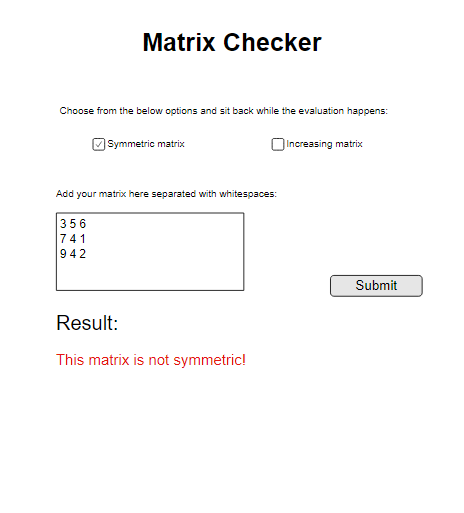
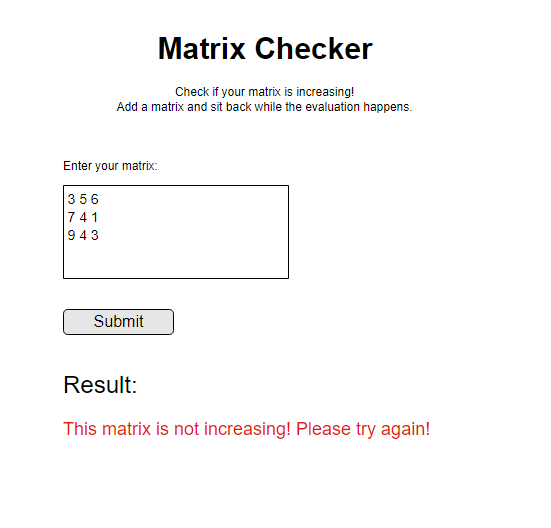
fix(remove-symmetric): fix based on walkthrough

diff --git a/javacs.md b/javacs.md
@@ -2,7 +2,7 @@
 
 ## 1) Symmetric Matrix
 
-You will create a web page which can check if the matrix is symmetric, increasing or neither.
+You will create a web page which can check if the matrix is increasing or not.
 
 # Matrix Checker
 
@@ -13,7 +13,6 @@ You will create a web page which can check if the matrix is symmetric, increasin
   - the **frontend** should have:
     - a heading with the title
     - nice intro text
-    - radio buttons for the matrix validation options
     - text area for the matrix input
     - submit button for sending the matrix to backend to check
 
@@ -22,12 +21,11 @@ You will create a web page which can check if the matrix is symmetric, increasin
 
   - only a square matrix should be submitted in the input field,
     - otherwise the app should send an error message
-  - user can choose which validation type will the matrix ride through
   - do the validation methods in backend
   - in case the matrix is valid send a success message in 'Result' section
-  - in case the matrix is not valid send an error
+  - in case the matrix is not valid send an error message in 'Result' section
   - if success, save the matrix into a database with the following fields:
-    - id, type, date, matrixNumbers
+    - id, date, matrixNumbers
   - handle errors written in the README.md
 
 
@@ -38,9 +36,9 @@ You will create a web page which can check if the matrix is symmetric, increasin
   - the endpoint should render an HTML displaying the main page
 
 ### POST `/matrix`
-  - this endpoint should be responsible for sending the matrix with the need of relevant validation type (symmetric or increasing)
+  - this endpoint should be responsible for sending the matrix
 
-### GET `/matrixes`
+### GET `/matrices`
   - this `REST` endpoint should query every matrix that were successfully saved and valid
 
 ## 2) Question time

diff --git a/javascript.md b/javascript.md
@@ -2,7 +2,7 @@
 
 ## 1) Symmetric Matrix
 
-You will create a web page which can check if the matrix is symmetric, increasing or neither.
+You will create a web page which can check if the matrix is increasing or not.
 
 # Matrix Checker
 
@@ -13,7 +13,6 @@ You will create a web page which can check if the matrix is symmetric, increasin
   - the **frontend** should have:
     - a heading with the title
     - nice intro text
-    - radio buttons for the matrix validation options
     - text area for the matrix input
     - submit button for sending the matrix to backend to check
 
@@ -22,12 +21,11 @@ You will create a web page which can check if the matrix is symmetric, increasin
 
   - only a square matrix should be submitted in the input field,
     - otherwise the app should send an error message
-  - user can choose which validation type will the matrix ride through
   - do the validation methods in backend
   - in case the matrix is valid send a success message in 'Result' section
-  - in case the matrix is not valid send an error
+  - in case the matrix is not valid send an error message in 'Result' section
   - if success, save the matrix into a database with the following fields:
-    - id, type, date, matrixNumbers
+    - id, date, matrixNumbers
   - handle errors written in the README.md
 
 
@@ -38,9 +36,9 @@ You will create a web page which can check if the matrix is symmetric, increasin
   - the endpoint should render an HTML displaying the main page
 
 ### POST `/matrix/:validtype`
-  - this endpoint should be responsible for sending the matrix with the need of relevant validation type
+  - this endpoint should be responsible for sending the matrix
 
-### GET `/matrixes`
+### GET `/matrices`
   - this endpoint should query every matrix that were successfully saved and valid
 
 ## 2) Question time

diff --git a/README.md b/README.md
@@ -14,27 +14,14 @@ this is a square matrix:
 this is not a square matrix:
 5 5 7 2 1
 6 5 7 6 7
-1 4 1 4
+1 4 1 4 8
 ```
 
 ## Highlights
 
 The checking page should look like this:
-![index](assets/index1.png)
+![index](assets/index.png)
 
-Symmetric matrix: is a square matrix that is equal to its transpose. [wiki](https://en.wikipedia.org/wiki/Symmetric_matrix)
-
-```
-example for symmetric matrix:
-1 0 1
-0 2 2
-1 2 5
-
-example for not symmetric matrix
-7 3 7
-6 5 7
-1 2 1
-```
 Increasing matrix: a matrix is said to be increasing matrix if for each column and row, the elements are in increasing order.
 
 ```
@@ -49,19 +36,17 @@ example for not increasing matrix
 1 2 1
 ```
 
- - It has a frontend which:
-   - renders main page with a form, which has an input text area
-   - lets you choose from different matrix validation options
-   - after submit renders the result / error to the same page
+  - It has a frontend which:
+    - renders main page with a form, which has an input text area
+    - after submit renders the result / error to the same page
 
 
- - It has a backend which:
-   - decides whether the received matrix meets the given requirement
-   - saves the valid matrix to a database with current date and time
-   - handles errors
-    - if the input text area is empty
-    - if the matrix that was given is not square
-    - if the validation type is missing
+  - It has a backend which:
+    - decides whether the received matrix meets the requirement
+    - saves the valid matrix to a database with current date and time
+    - handles errors
+      - if the input text area is empty
+      - if the matrix that was given is not square
 
 
 More info is in the language specific description.
